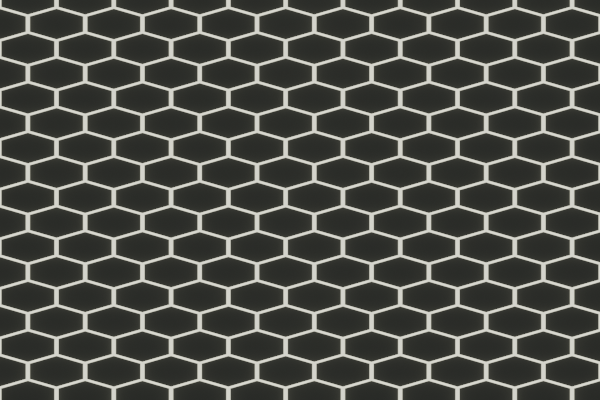
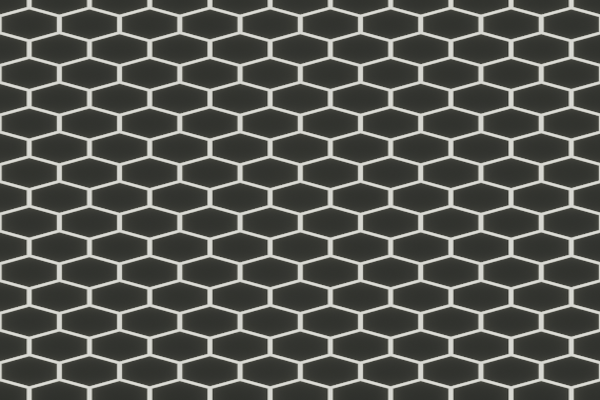
Updated terrains so they tile.  Updated color of game background. Punctuation update for titlescreen-typepng

diff --git a/src/index.js b/src/index.js
@@ -6,7 +6,7 @@ const config = {
     type: Phaser.AUTO,
     width: 800,
     height: 600,
-    backgroundColor: '#0',
+    backgroundColor: '#221020',
     parent: 'phaser-example',
     antialias: false,
 };
